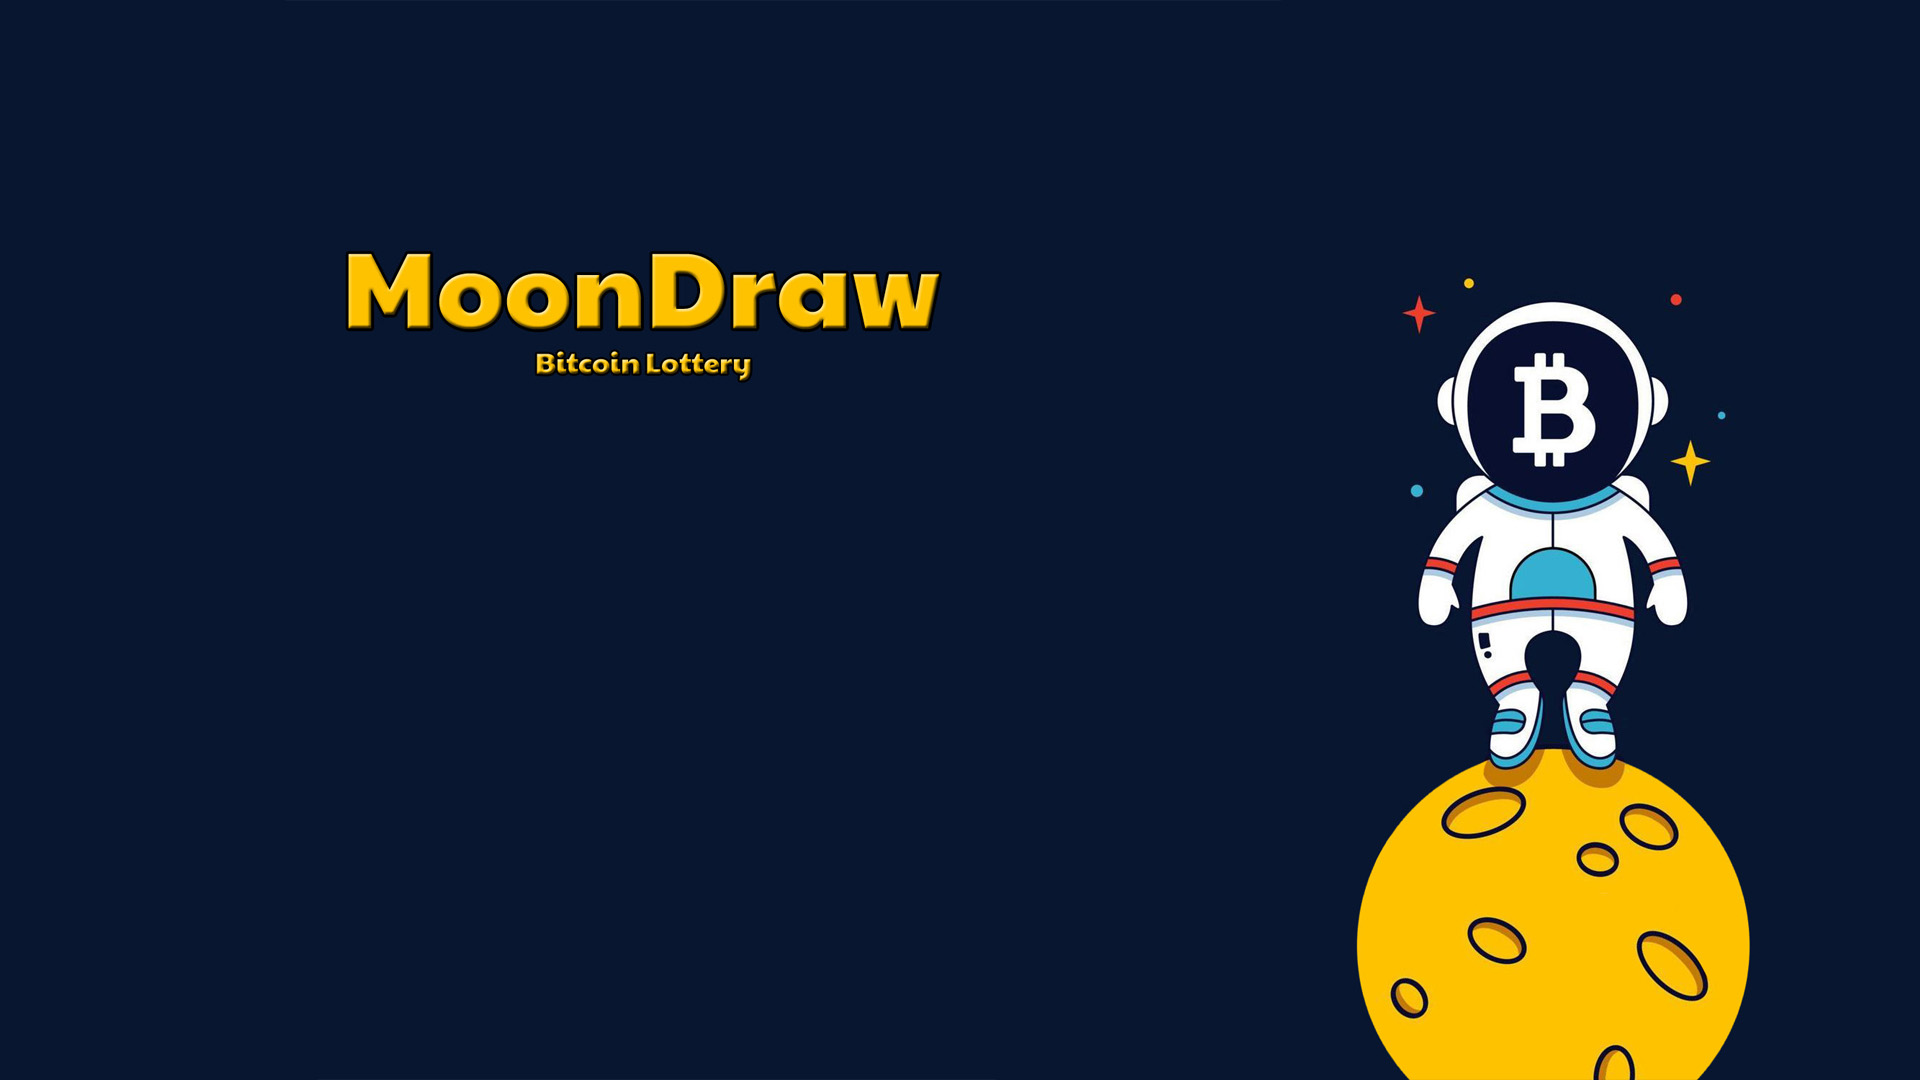
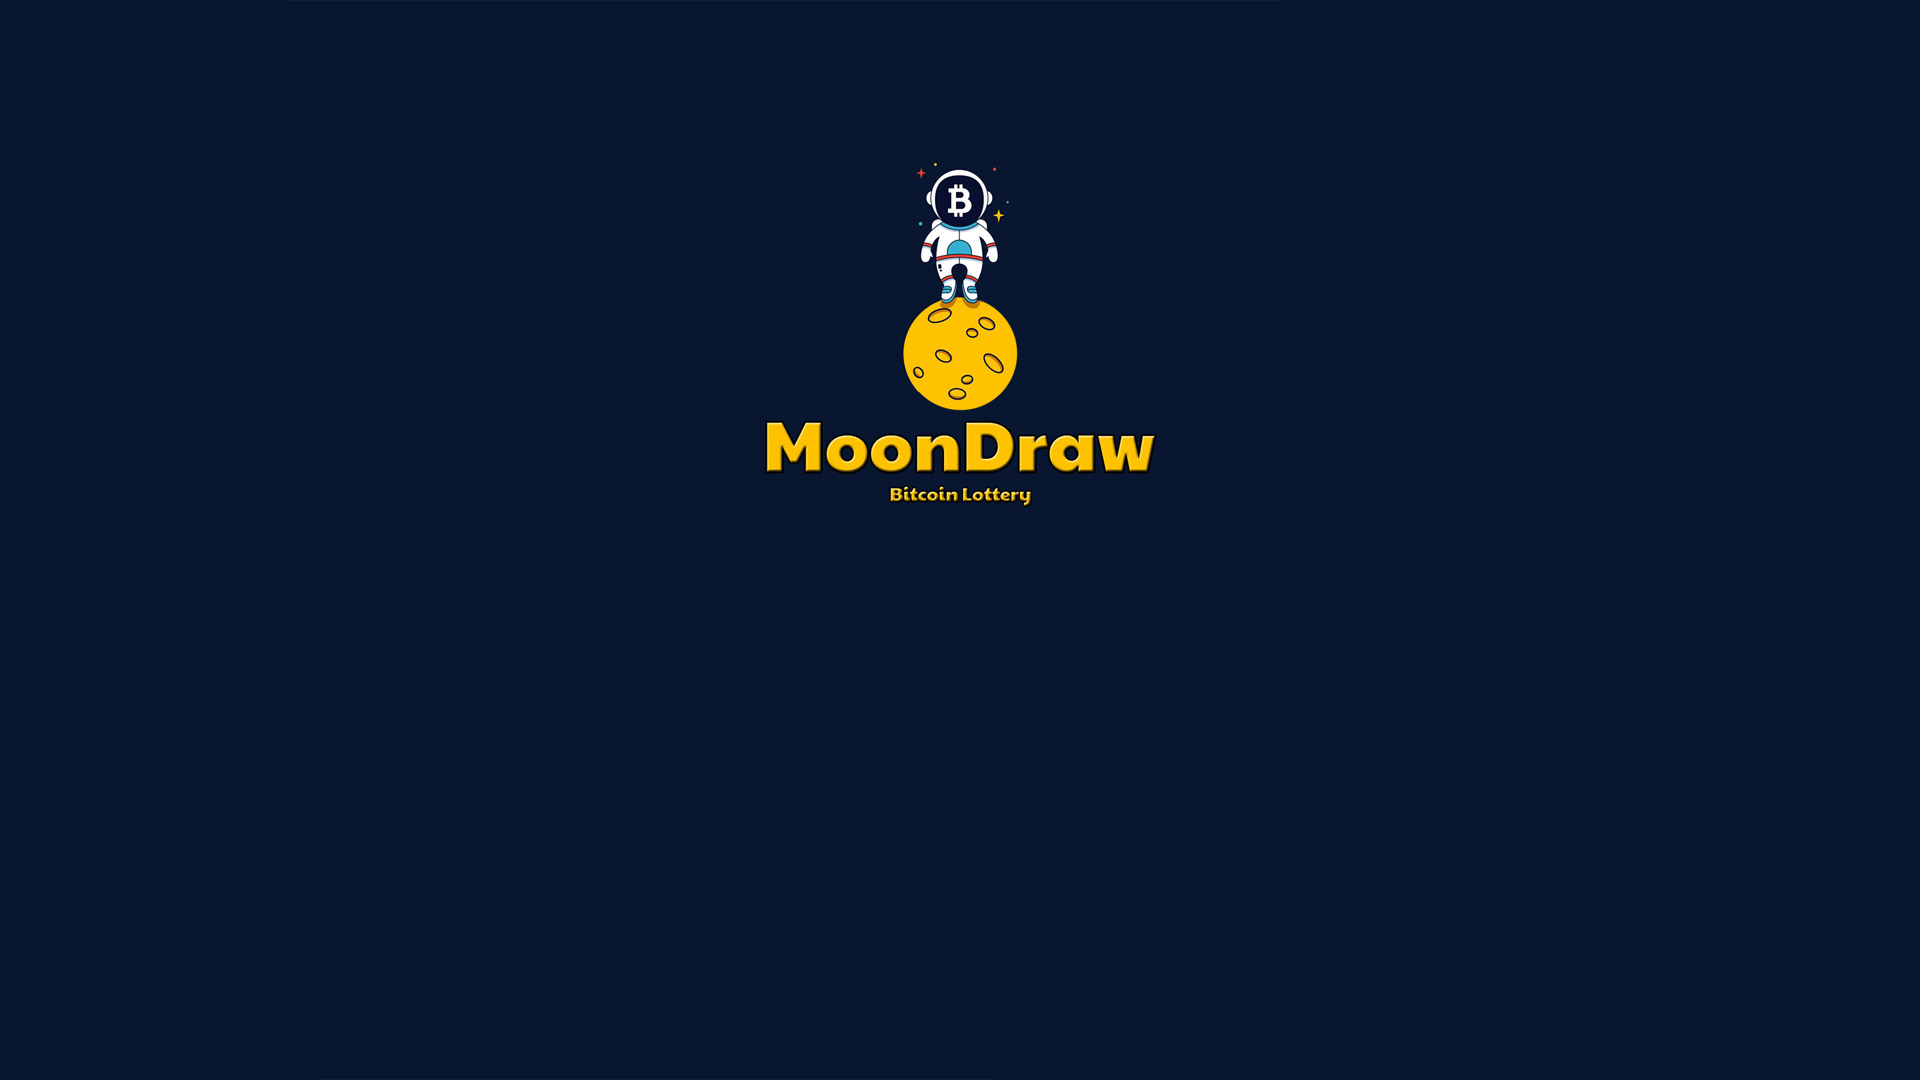
Changed home page bg.

Changed region(s): [[0.6875, 0.275, 0.9375, 1.0], [0.1562, 0.1528, 0.625, 0.4889], [0.7188, 0.275, 0.75, 0.3056]]

diff --git a/assets/css/style.css b/assets/css/style.css
@@ -32,7 +32,6 @@
 .index-page > .btn {
   position: absolute;
   top: 50%;
-  left: 25%;
   font-size: 28px;
 }
 
@@ -58,8 +57,7 @@
   max-width: 500px;
   box-shadow: 0 4px 10px rgba(0, 0, 0, 0.1);
   position: absolute;
-  left: 20%;
-  top: 40%;
+  top: 50%;
 }
 
 .toggle-buttons {
@@ -182,11 +180,7 @@
 
 /* md - For medium devices */
 @media screen and (max-width: 768px) {
-  .index-page > .btn {
-    left: unset;
-  }
   .toggle-box {
-    left: 0;
     max-width: unset;
   }
 }
